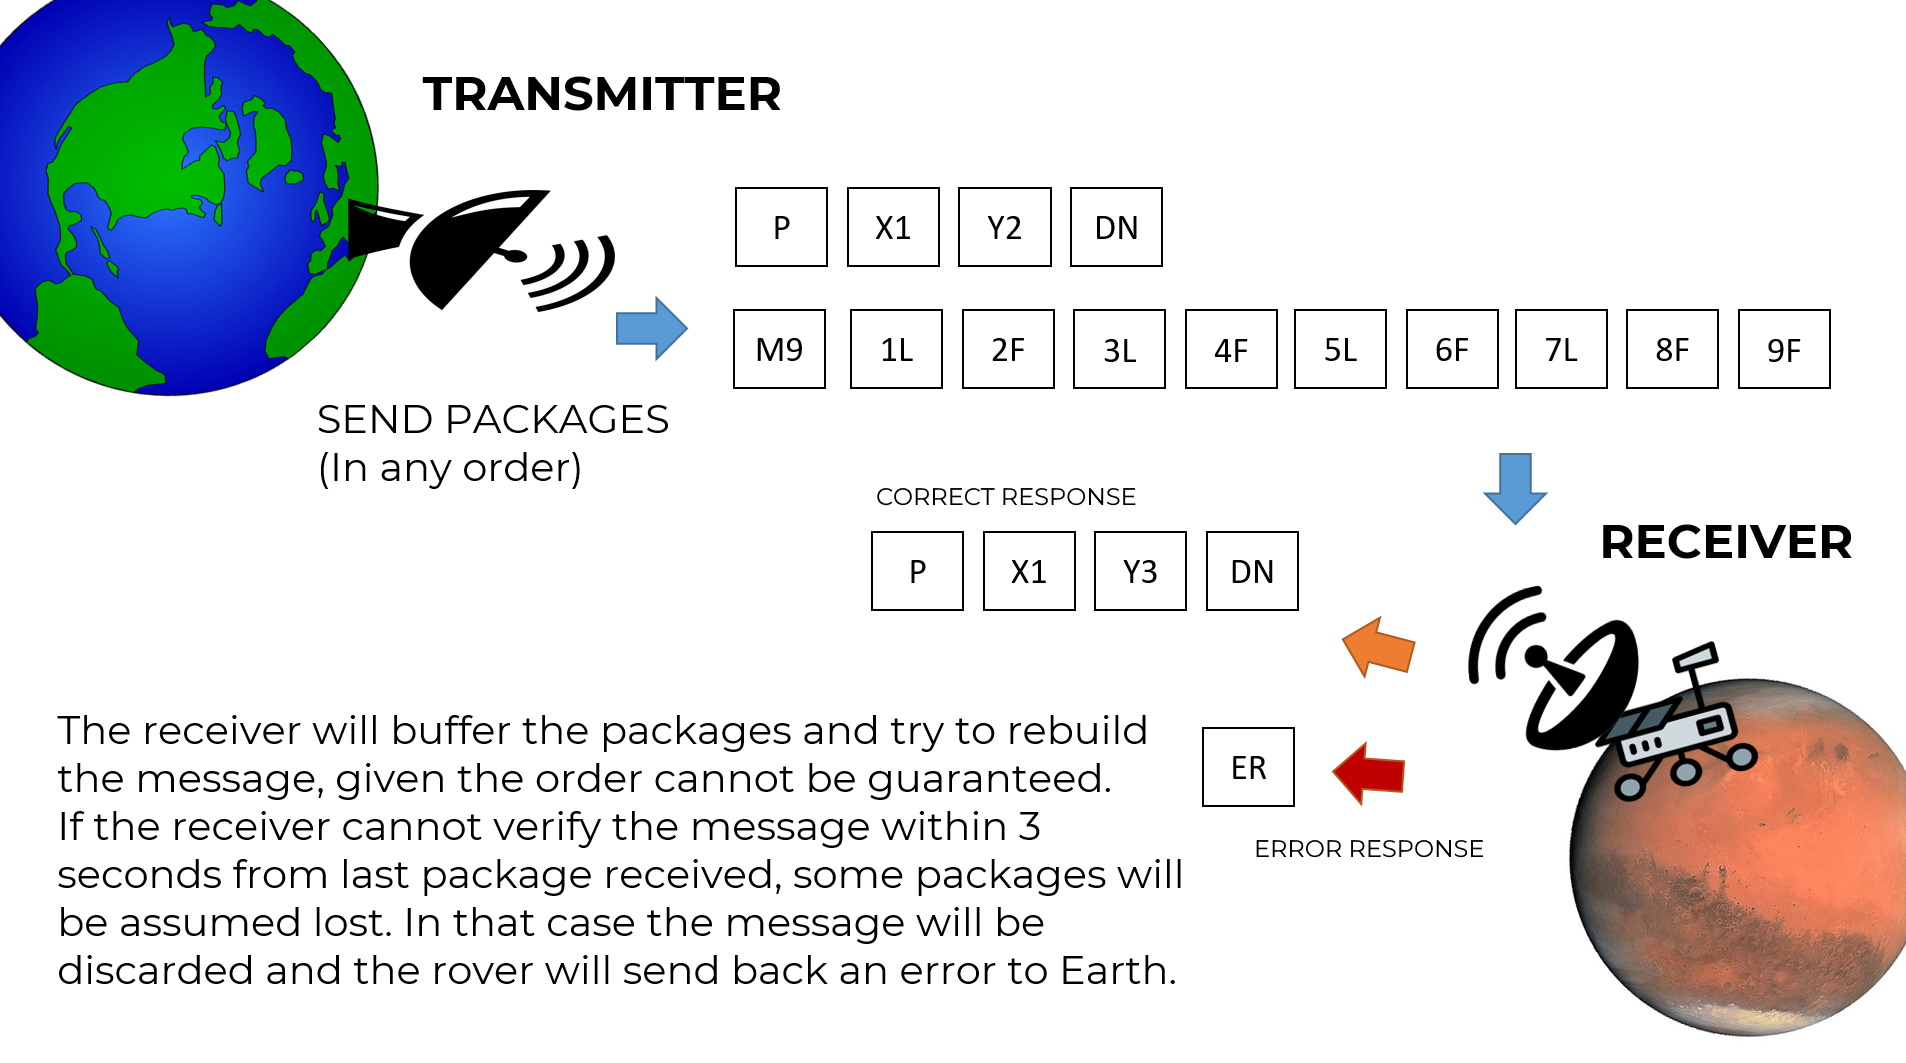
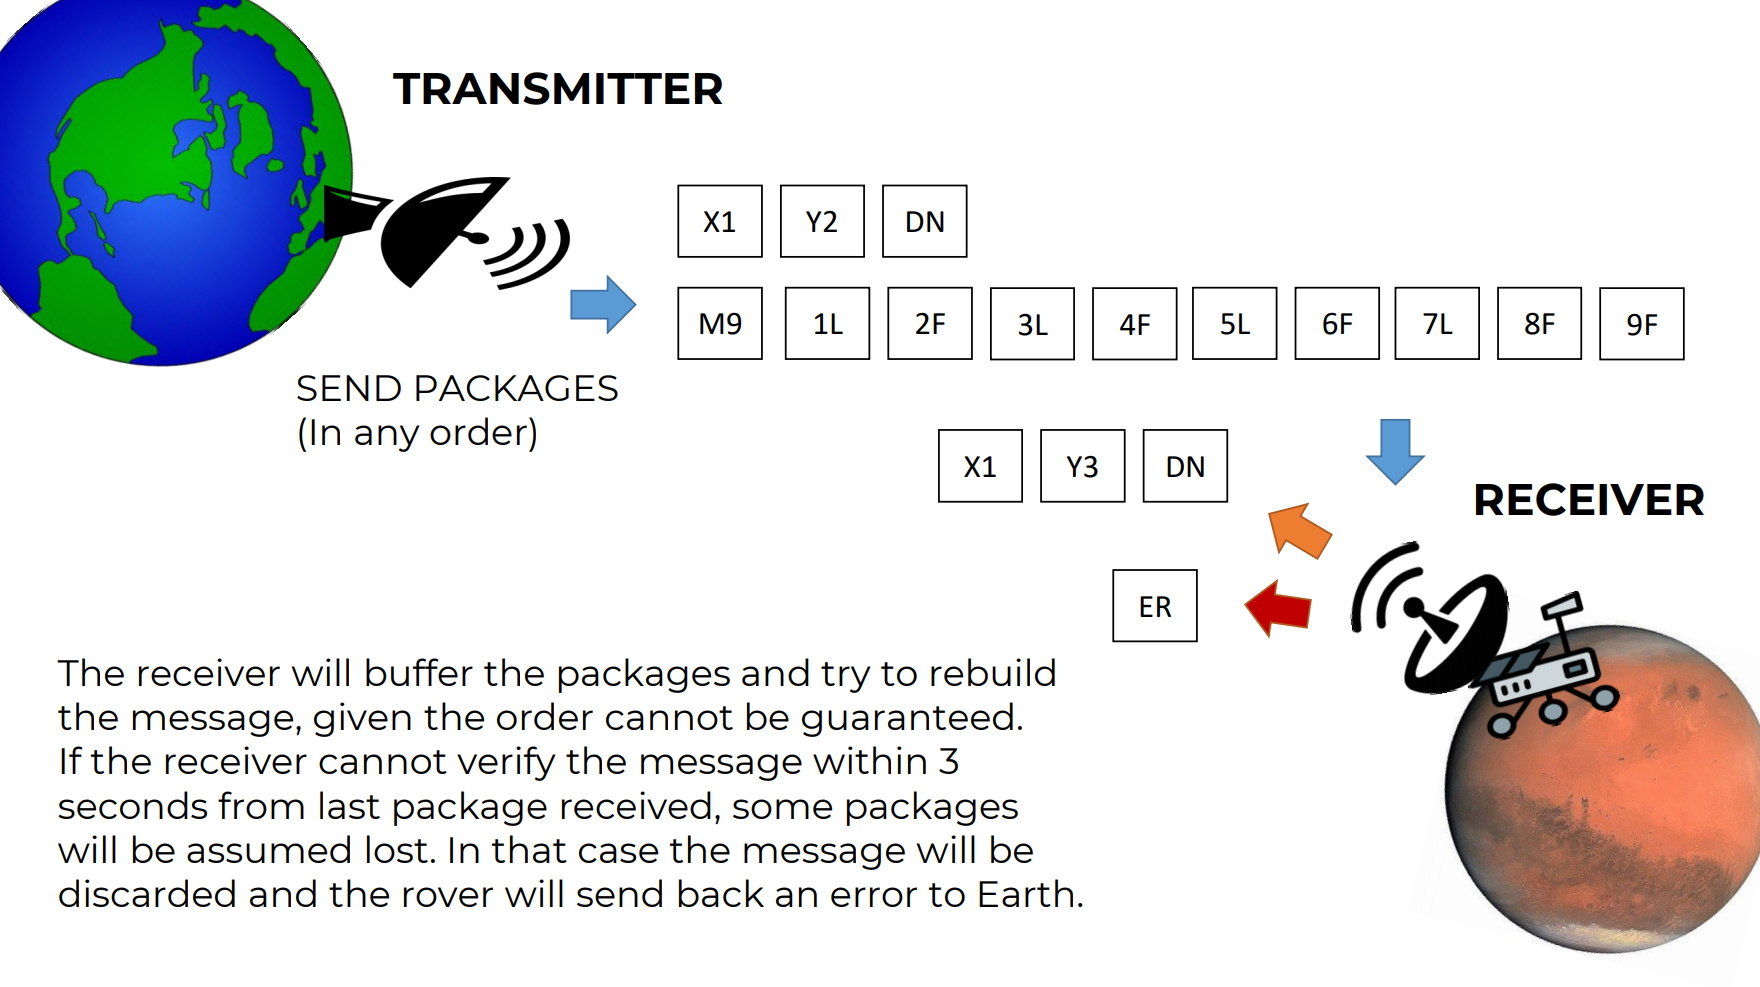
fixed text and picture

diff --git a/readme.md b/readme.md
@@ -24,7 +24,7 @@ The plateau is always 100 by 100 where (0,0) is the bottom left corner.
 
 The input comes in form of packages and it is always formed by 2 streams of data: the initial position and the list of moves.
 
-The position is a sequence of 4 packages containing the following strings: `P` `X2` `Y75` `DN`
+The position is a sequence of 4 packages containing the following strings: `X2` `Y75` `DN`
 which would mean that the rover will start from the coordinates (2,75) facing North.
 
 The sequence of commands will be an indefined number of packages of this form: `M5` `1F` `2L` `3F` `4R` `5F`
